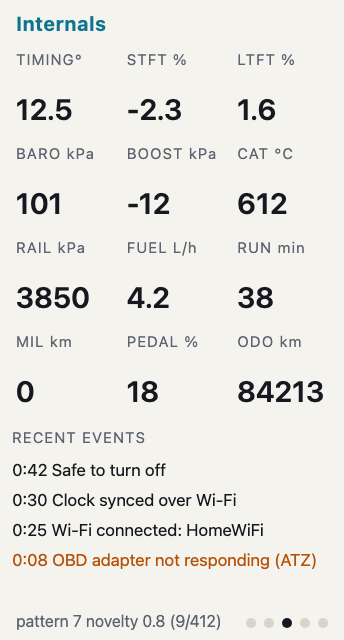
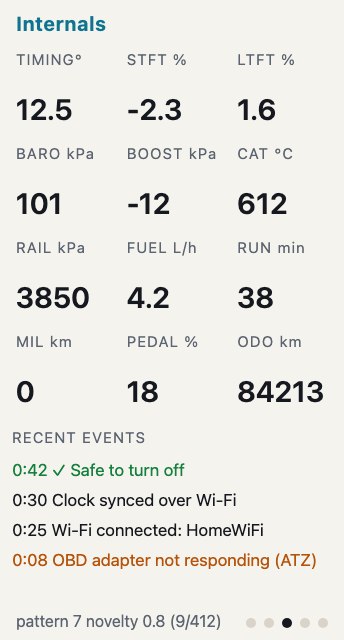
Show live on page 3 whether the power can be cut
The newest save line turns green "Safe to turn off" only when car data has
stopped for 5 s, everything is on the card and no upload is running. Until
then it is red with the reason: logging, saving or upload. The decision is
a pure function (power_state.c) with a simulated drive in the host tests;
the screen simulator shows both states in both themes.

Claude-Session: https://claude.ai/code/session_01XTAvvSkN4SswRoW4SU59VW

Changed region(s): [[0.0291, 0.7188, 0.5523, 0.75]]

diff --git a/docs/screens/screens.html b/docs/screens/screens.html
@@ -35,7 +35,14 @@ body{margin:0;background:#1a1f27;font-family:Montserrat,system-ui,sans-serif;col
 <div class="scr" id="internals">
  <div style="padding:12px 16px 6px;font-size:20px;height:44px;box-sizing:border-box"><span class="brand">Internals</span></div>
  <div class="grid3" style="row-gap:6px"><div class="t3" style="height:88px"><span class="cap" style="font-size:15px">TIMING°</span><span style="font-size:29px;font-weight:600">12.5</span></div><div class="t3" style="height:88px"><span class="cap" style="font-size:15px">STFT %</span><span style="font-size:29px;font-weight:600">-2.3</span></div><div class="t3" style="height:88px"><span class="cap" style="font-size:15px">LTFT %</span><span style="font-size:29px;font-weight:600">1.6</span></div><div class="t3" style="height:88px"><span class="cap" style="font-size:15px">BARO kPa</span><span style="font-size:29px;font-weight:600">101</span></div><div class="t3" style="height:88px"><span class="cap" style="font-size:15px">BOOST kPa</span><span style="font-size:29px;font-weight:600">-12</span></div><div class="t3" style="height:88px"><span class="cap" style="font-size:15px">CAT °C</span><span style="font-size:29px;font-weight:600">612</span></div><div class="t3" style="height:88px"><span class="cap" style="font-size:15px">RAIL kPa</span><span style="font-size:29px;font-weight:600">3850</span></div><div class="t3" style="height:88px"><span class="cap" style="font-size:15px">FUEL L/h</span><span style="font-size:29px;font-weight:600">4.2</span></div><div class="t3" style="height:88px"><span class="cap" style="font-size:15px">RUN min</span><span style="font-size:29px;font-weight:600">38</span></div><div class="t3" style="height:88px"><span class="cap" style="font-size:15px">MIL km</span><span style="font-size:29px;font-weight:600">0</span></div><div class="t3" style="height:88px"><span class="cap" style="font-size:15px">PEDAL %</span><span style="font-size:29px;font-weight:600">18</span></div><div class="t3" style="height:88px"><span class="cap" style="font-size:15px">ODO km</span><span style="font-size:29px;font-weight:600">84213</span></div></div>
- <div class="cap" style="position:absolute;left:12px;top:428px;font-size:15px;letter-spacing:.08em">RECENT EVENTS</div><div style="position:absolute;left:12px;top:460px;width:320px;font-size:17px;white-space:nowrap;overflow:hidden;text-overflow:ellipsis;">0:42 Safe to turn off</div><div style="position:absolute;left:12px;top:490px;width:320px;font-size:17px;white-space:nowrap;overflow:hidden;text-overflow:ellipsis;">0:30 Clock synced over Wi-Fi</div><div style="position:absolute;left:12px;top:520px;width:320px;font-size:17px;white-space:nowrap;overflow:hidden;text-overflow:ellipsis;">0:25 Wi-Fi connected: HomeWiFi</div><div style="position:absolute;left:12px;top:550px;width:320px;font-size:17px;white-space:nowrap;overflow:hidden;text-overflow:ellipsis;color:#F59E0B;">0:08 OBD adapter not responding (ATZ)</div>
+ <div class="cap" style="position:absolute;left:12px;top:428px;font-size:15px;letter-spacing:.08em">RECENT EVENTS</div><div style="position:absolute;left:12px;top:460px;width:320px;font-size:17px;white-space:nowrap;overflow:hidden;text-overflow:ellipsis;color:#22C55E;">0:42 &#10003; Safe to turn off</div><div style="position:absolute;left:12px;top:490px;width:320px;font-size:17px;white-space:nowrap;overflow:hidden;text-overflow:ellipsis;">0:30 Clock synced over Wi-Fi</div><div style="position:absolute;left:12px;top:520px;width:320px;font-size:17px;white-space:nowrap;overflow:hidden;text-overflow:ellipsis;">0:25 Wi-Fi connected: HomeWiFi</div><div style="position:absolute;left:12px;top:550px;width:320px;font-size:17px;white-space:nowrap;overflow:hidden;text-overflow:ellipsis;color:#F59E0B;">0:08 OBD adapter not responding (ATZ)</div>
+ <div class="foot">pattern 7  novelty 0.8  (9/412)</div>
+ <div class="dots"><span></span><span></span><span class="on"></span><span></span><span></span></div>
+</div>
+<div class="scr" id="internals-logging">
+ <div style="padding:12px 16px 6px;font-size:20px;height:44px;box-sizing:border-box"><span class="brand">Internals</span></div>
+ <div class="grid3" style="row-gap:6px"><div class="t3" style="height:88px"><span class="cap" style="font-size:15px">TIMING°</span><span style="font-size:29px;font-weight:600">12.5</span></div><div class="t3" style="height:88px"><span class="cap" style="font-size:15px">STFT %</span><span style="font-size:29px;font-weight:600">-2.3</span></div><div class="t3" style="height:88px"><span class="cap" style="font-size:15px">LTFT %</span><span style="font-size:29px;font-weight:600">1.6</span></div><div class="t3" style="height:88px"><span class="cap" style="font-size:15px">BARO kPa</span><span style="font-size:29px;font-weight:600">101</span></div><div class="t3" style="height:88px"><span class="cap" style="font-size:15px">BOOST kPa</span><span style="font-size:29px;font-weight:600">-12</span></div><div class="t3" style="height:88px"><span class="cap" style="font-size:15px">CAT °C</span><span style="font-size:29px;font-weight:600">612</span></div><div class="t3" style="height:88px"><span class="cap" style="font-size:15px">RAIL kPa</span><span style="font-size:29px;font-weight:600">3850</span></div><div class="t3" style="height:88px"><span class="cap" style="font-size:15px">FUEL L/h</span><span style="font-size:29px;font-weight:600">4.2</span></div><div class="t3" style="height:88px"><span class="cap" style="font-size:15px">RUN min</span><span style="font-size:29px;font-weight:600">38</span></div><div class="t3" style="height:88px"><span class="cap" style="font-size:15px">MIL km</span><span style="font-size:29px;font-weight:600">0</span></div><div class="t3" style="height:88px"><span class="cap" style="font-size:15px">PEDAL %</span><span style="font-size:29px;font-weight:600">18</span></div><div class="t3" style="height:88px"><span class="cap" style="font-size:15px">ODO km</span><span style="font-size:29px;font-weight:600">84213</span></div></div>
+ <div class="cap" style="position:absolute;left:12px;top:428px;font-size:15px;letter-spacing:.08em">RECENT EVENTS</div><div style="position:absolute;left:12px;top:460px;width:320px;font-size:17px;white-space:nowrap;overflow:hidden;text-overflow:ellipsis;color:#EF4444;">0:42 &#9888; Not safe: logging</div><div style="position:absolute;left:12px;top:490px;width:320px;font-size:17px;white-space:nowrap;overflow:hidden;text-overflow:ellipsis;">0:30 Clock synced over Wi-Fi</div><div style="position:absolute;left:12px;top:520px;width:320px;font-size:17px;white-space:nowrap;overflow:hidden;text-overflow:ellipsis;">0:25 Wi-Fi connected: HomeWiFi</div><div style="position:absolute;left:12px;top:550px;width:320px;font-size:17px;white-space:nowrap;overflow:hidden;text-overflow:ellipsis;color:#F59E0B;">0:08 OBD adapter not responding (ATZ)</div>
  <div class="foot">pattern 7  novelty 0.8  (9/412)</div>
  <div class="dots"><span></span><span></span><span class="on"></span><span></span><span></span></div>
 </div>
@@ -43,7 +50,7 @@ body{margin:0;background:#1a1f27;font-family:Montserrat,system-ui,sans-serif;col
 <div class="scr" id="internals-custom">
  <div style="padding:12px 16px 6px;font-size:20px;height:44px;box-sizing:border-box"><span class="brand">Internals</span></div>
  <div class="grid3" style="row-gap:6px"><div class="t3" style="height:88px"><span class="cap" style="font-size:15px">TIMING°</span><span style="font-size:29px;font-weight:600">12.5</span></div><div class="t3" style="height:88px"><span class="cap" style="font-size:15px">STFT %</span><span style="font-size:29px;font-weight:600">-2.3</span></div><div class="t3" style="height:88px"><span class="cap" style="font-size:15px">LTFT %</span><span style="font-size:29px;font-weight:600">1.6</span></div><div class="t3" style="height:88px"><span class="cap" style="font-size:15px">BARO kPa</span><span style="font-size:29px;font-weight:600">101</span></div><div class="t3" style="height:88px"><span class="cap" style="font-size:15px">BOOST kPa</span><span style="font-size:29px;font-weight:600">-12</span></div><div class="t3" style="height:88px"><span class="cap" style="font-size:15px">CAT °C</span><span style="font-size:29px;font-weight:600">612</span></div><div class="t3" style="height:88px"><span class="cap" style="font-size:15px">RAIL kPa</span><span style="font-size:29px;font-weight:600">3850</span></div><div class="t3" style="height:88px"><span class="cap" style="font-size:15px">FUEL L/h</span><span style="font-size:29px;font-weight:600">4.2</span></div><div class="t3" style="height:88px"><span class="cap" style="font-size:15px">RUN min</span><span style="font-size:29px;font-weight:600">38</span></div><div class="t3" style="height:88px"><span class="cap" style="font-size:15px">MIL km</span><span style="font-size:29px;font-weight:600">0</span></div><div class="t3" style="height:88px"><span class="cap" style="font-size:15px">PEDAL %</span><span style="font-size:29px;font-weight:600">18</span></div><div class="t3" style="height:88px"><span class="cap" style="font-size:15px">ODO km</span><span style="font-size:29px;font-weight:600">84213</span></div></div>
- <div class="tile" style="position:absolute;left:8px;top:428px;width:162px;height:52px;flex-direction:row;align-items:center;padding:4px 8px"><span class="muted" style="font-size:16px">Tyre FL</span><span style="font-size:24px;font-weight:600">2.4</span></div><div class="tile" style="position:absolute;left:174px;top:428px;width:162px;height:52px;flex-direction:row;align-items:center;padding:4px 8px"><span class="muted" style="font-size:16px">Tyre FR</span><span style="font-size:24px;font-weight:600">2.4</span></div><div class="cap" style="position:absolute;left:12px;top:484px;font-size:15px;letter-spacing:.08em">RECENT EVENTS</div><div style="position:absolute;left:12px;top:516px;width:320px;font-size:17px;white-space:nowrap;overflow:hidden;text-overflow:ellipsis;">0:42 Safe to turn off</div><div style="position:absolute;left:12px;top:546px;width:320px;font-size:17px;white-space:nowrap;overflow:hidden;text-overflow:ellipsis;">0:30 Clock synced over Wi-Fi</div>
+ <div class="tile" style="position:absolute;left:8px;top:428px;width:162px;height:52px;flex-direction:row;align-items:center;padding:4px 8px"><span class="muted" style="font-size:16px">Tyre FL</span><span style="font-size:24px;font-weight:600">2.4</span></div><div class="tile" style="position:absolute;left:174px;top:428px;width:162px;height:52px;flex-direction:row;align-items:center;padding:4px 8px"><span class="muted" style="font-size:16px">Tyre FR</span><span style="font-size:24px;font-weight:600">2.4</span></div><div class="cap" style="position:absolute;left:12px;top:484px;font-size:15px;letter-spacing:.08em">RECENT EVENTS</div><div style="position:absolute;left:12px;top:516px;width:320px;font-size:17px;white-space:nowrap;overflow:hidden;text-overflow:ellipsis;color:#22C55E;">0:42 &#10003; Safe to turn off</div><div style="position:absolute;left:12px;top:546px;width:320px;font-size:17px;white-space:nowrap;overflow:hidden;text-overflow:ellipsis;">0:30 Clock synced over Wi-Fi</div>
  <div class="foot">pattern 7  novelty 0.8  (9/412)</div>
  <div class="dots"><span></span><span></span><span class="on"></span><span></span><span></span></div>
 </div>

diff --git a/main/sdlog.c b/main/sdlog.c
@@ -56,6 +56,8 @@ static char     s_ml_path[96];
 static uint64_t s_ml_bytes, s_ml_synced;
 static uint32_t s_window_seq;
 static int64_t  s_last_sync_ms;        /* uptime of the last full flush to the card */
+static volatile bool s_unsaved;        /* something was written since the last flush */
+static volatile int64_t s_last_write_ms = -1;   /* uptime of the last write to a session file */
 static WORD_ALIGNED_ATTR char s_csv_iobuf[2048];   /* internal DRAM, DMA-capable on the S3 */
 
 /* ---------- helpers ---------- */
@@ -155,6 +157,7 @@ static void sync_all_locked(void)
     if (s_ml)  { fflush(s_ml);  fsync(fileno(s_ml));  s_ml_synced = s_ml_bytes; }
     meta_flush_locked();                       /* keeps the JSON row count current */
     save_clock_locked();
+    s_unsaved = false;
     s_last_sync_ms = esp_timer_get_time() / 1000;
 }
 
@@ -302,6 +305,14 @@ esp_err_t sdlog_init(void)
 }
 
 bool sdlog_ok(void) { return s_ok; }
+
+bool sdlog_saved(void) { return s_ok && !s_unsaved; }
+
+int64_t sdlog_ms_since_write(void)
+{
+    int64_t t = s_last_write_ms;
+    return t < 0 ? INT64_MAX : esp_timer_get_time() / 1000 - t;
+}
 uint32_t sdlog_session_id(void) { return s_session; }
 
 static int fmt_num(char *dst, size_t n, float v)
@@ -336,7 +347,7 @@ void sdlog_write_row(const obd_values_t *v)
     line[n++] = '\n';
     line[n] = 0;
 
-    if (fputs(line, s_csv) >= 0) s_bytes += n;
+    if (fputs(line, s_csv) >= 0) { s_bytes += n; s_unsaved = true; s_last_write_ms = esp_timer_get_time() / 1000; }
     else { static int said; if (!said++) sys_event(EV_ERROR, "SD write failed: card full or removed?"); }
     bool saved = false;
     if (s_rows % CONFIG_SDLOG_FSYNC_EVERY_ROWS == 0 ||
@@ -364,7 +375,7 @@ void sdlog_write_raw(uint8_t pid, const char *hex)
     }
     if (s_raw) {
         int n = fprintf(s_raw, "%lld,01%02X,%s\n", (long long)(esp_timer_get_time() / 1000), pid, hex);
-        if (n > 0) s_raw_bytes += n;
+        if (n > 0) { s_raw_bytes += n; s_unsaved = true; }
     }
     xSemaphoreGive(s_lock);
 }
@@ -392,7 +403,7 @@ void sdlog_write_pattern_window(uint32_t window_seq, int64_t start_ms, int64_t e
                         (long long)end_ms, samples, pattern_id, dist, novelty, spawned ? 1 : 0, sax_rpm, sax_speed);
         for (int i = 0; i < nfeatures; i++) n += fprintf(s_pat, ",%.4g", features[i]);
         n += fprintf(s_pat, "\n");
-        if (n > 0) s_pat_bytes += n;
+        if (n > 0) { s_pat_bytes += n; s_unsaved = true; }
     }
     xSemaphoreGive(s_lock);
 }
@@ -408,6 +419,7 @@ void sdlog_write_ml_line(const char *header, const char *line)
     }
     if (s_ml && fputs(line, s_ml) >= 0) {
         s_ml_bytes += strlen(line);
+        s_unsaved = true;
         /* flushed with the CSV in sync_all_locked(): one fsync per save, not one per model line */
     }
     xSemaphoreGive(s_lock);

diff --git a/main/display.c b/main/display.c
@@ -19,6 +19,10 @@
 #include "board.h"
 #include "display.h"
 #include "status.h"
+#include "sdlog.h"
+#include "power_state.h"
+#include "uploader.h"
+#include "sys_mode.h"
 #include "version.h"
 #include <stdarg.h>
 
@@ -841,13 +845,31 @@ static void refresh_page2(const app_status_t *st)
     if (fit > P2_EVENTS) fit = P2_EVENTS;
     if (fit < 1) lv_obj_add_flag(p2_ev_cap, LV_OBJ_FLAG_HIDDEN);
     else { lv_obj_remove_flag(p2_ev_cap, LV_OBJ_FLAG_HIDDEN); lv_obj_set_pos(p2_ev_cap, 6, top); }
+    bool save_line_shown = false;
     for (int i = 0; i < P2_EVENTS; i++) {
         if (i >= fit) { lv_obj_add_flag(p2_ev_line[i], LV_OBJ_FLAG_HIDDEN); continue; }
         lv_obj_remove_flag(p2_ev_line[i], LV_OBJ_FLAG_HIDDEN);
         lv_obj_set_pos(p2_ev_line[i], 6, top + 16 + i * 15);
         if (i >= st->event_count) { lv_label_set_text(p2_ev_line[i], i == 0 ? "no events yet" : ""); lv_obj_set_style_text_color(p2_ev_line[i], lv_color_hex(C_MUTED), 0); continue; }
         const sys_event_t *e = &st->events[(st->event_head + EVENT_MAX - 1 - i) % EVENT_MAX];   /* newest first */
-        lv_label_set_text_fmt(p2_ev_line[i], "%lu:%02lu %s", (unsigned long)(e->uptime_ms / 60000), (unsigned long)((e->uptime_ms / 1000) % 60), e->text);
+        unsigned long mm = (unsigned long)(e->uptime_ms / 60000), ss = (unsigned long)((e->uptime_ms / 1000) % 60);
+        if (strcmp(e->text, "Safe to turn off") == 0) {
+            /* The newest save line shows the state now, not when it was written: green only when car data has stopped,
+               everything is on the card and nothing is uploading (power_state.c). Older copies are greyed. */
+            if (!save_line_shown) {
+                save_line_shown = true;
+                power_state_t ps = power_state(sdlog_ok(), sdlog_saved(), sdlog_ms_since_write(), sys_mode_get() == MODE_DRIVE,
+                                               uploader_busy());
+                lv_label_set_text_fmt(p2_ev_line[i], "%lu:%02lu %s %s", mm, ss, ps == POWER_SAFE ? LV_SYMBOL_OK : LV_SYMBOL_WARNING,
+                                      power_state_text(ps));
+                lv_obj_set_style_text_color(p2_ev_line[i], lv_color_hex(ps == POWER_SAFE ? C_OK : C_BAD), 0);
+            } else {
+                lv_label_set_text_fmt(p2_ev_line[i], "%lu:%02lu Saved", mm, ss);
+                lv_obj_set_style_text_color(p2_ev_line[i], lv_color_hex(C_MUTED), 0);
+            }
+            continue;
+        }
+        lv_label_set_text_fmt(p2_ev_line[i], "%lu:%02lu %s", mm, ss, e->text);
         lv_obj_set_style_text_color(p2_ev_line[i], lv_color_hex(e->level == EV_ERROR ? C_BAD : e->level == EV_WARN ? C_WARN : C_TEXT), 0);
     }
 }

diff --git a/tests/host/test_main.c b/tests/host/test_main.c
@@ -24,6 +24,7 @@ void sys_event(event_level_t level, const char *fmt, ...)
 static int fails, checks;
 #include "adapter_match.h"
 #include "harden.h"
+#include "power_state.h"
 #define CHECK(cond) do { checks++; if (!(cond)) { fails++; fprintf(stderr, "FAIL %s:%d: %s\n", __FILE__, __LINE__, #cond); } } while (0)
 #define NEAR(a, b) (fabsf((a) - (b)) < 1e-3f)
 
@@ -219,8 +220,33 @@ static void test_harden(void)
     CHECK(!harden_timezone_ok(NULL));
 }
 
+/* Simulates a drive from start to switch-off: the screen may say "Safe to turn off" only at the end. */
+static void test_power_state(void)
+{
+    CHECK(power_state(false, true, 99999, false, false) == POWER_NO_CARD);
+    CHECK(power_state(true, true, 99999, true, false) == POWER_LOGGING);          /* car link up */
+    CHECK(power_state(true, true, 1200, false, false) == POWER_LOGGING);          /* rows still fresh, model still running */
+    CHECK(power_state(true, true, 4999, false, false) == POWER_LOGGING);
+    CHECK(power_state(true, false, 5000, false, false) == POWER_SAVING);          /* data stopped, last save pending */
+    CHECK(power_state(true, true, 5000, false, true) == POWER_UPLOADING);
+    CHECK(power_state(true, true, 5000, false, false) == POWER_SAFE);             /* stale data, saved, idle */
+    CHECK(power_state(true, true, INT64_MAX, false, false) == POWER_SAFE);        /* parked since boot */
+    /* a timeline: rows every 1.5 s, then the car stops at 30 s; saves every 10 s */
+    int safe_at = -1;
+    for (int ms = 0; ms <= 60000; ms += 500) {
+        int64_t last_row = ms <= 30000 ? (ms / 1500) * 1500 : 30000;
+        bool saved = (ms >= 40000);                                   /* first save after the last row */
+        power_state_t s = power_state(true, saved, ms - last_row, ms <= 30000, false);
+        if (s == POWER_SAFE && safe_at < 0) safe_at = ms;
+        if (ms <= 30000) CHECK(s != POWER_SAFE);
+    }
+    CHECK(safe_at == 40000);
+    for (int s = POWER_SAFE; s <= POWER_UPLOADING; s++) CHECK(strlen(power_state_text((power_state_t)s)) <= 18);   /* fits page 3 */
+}
+
 int main(void)
 {
+    test_power_state();
     test_harden();
     test_adapter_names();
     test_pattern();

diff --git a/main/power_state.h b/main/power_state.h
@@ -1,0 +1,17 @@
+/* Whether the power can be cut now, and if not, why. The screen shows it live on page 3. */
+#pragma once
+#include <stdbool.h>
+#include <stdint.h>
+
+#define POWER_STALE_MS 5000   /* car data counts as stopped this long after the last row */
+
+typedef enum {
+    POWER_SAFE = 0,      /* car data has stopped, everything is on the card, nothing is uploading */
+    POWER_NO_CARD,       /* nothing can be saved */
+    POWER_LOGGING,       /* the car link is up or rows arrived in the last POWER_STALE_MS (the model runs per row) */
+    POWER_SAVING,        /* data stopped but the last of it is not on the card yet (at most one save period) */
+    POWER_UPLOADING,     /* a pass to the desktop app is running */
+} power_state_t;
+
+power_state_t power_state(bool card, bool saved, int64_t ms_since_write, bool driving, bool uploading);
+const char   *power_state_text(power_state_t s);   /* short enough for one 160 px line on page 3 */

diff --git a/main/uploader.c b/main/uploader.c
@@ -27,6 +27,7 @@ static char s_host[64], s_token[72], s_board[13];
 static uint16_t s_port;
 static char *s_cert;                    /* PEM, PSRAM */
 static bool s_ok;
+static volatile bool s_busy;
 
 typedef struct { char *buf; size_t len, cap; } body_t;
 
@@ -143,9 +144,21 @@ static long long remote_size(const char *list, const char *name)
     return 0;
 }
 
+bool uploader_busy(void) { return s_busy; }
+
+static bool pass_inner(void);
+
 bool uploader_pass(void)
 {
     if (!s_ok) return false;
+    s_busy = true;
+    bool reached = pass_inner();
+    s_busy = false;
+    return reached;
+}
+
+static bool pass_inner(void)
+{
     static body_t list, small;
     if (!list.buf) { list.cap = LIST_MAX; list.buf = heap_caps_malloc(LIST_MAX, MALLOC_CAP_SPIRAM); }
     if (!small.buf) { small.cap = 64; small.buf = heap_caps_malloc(64, MALLOC_CAP_SPIRAM); }

diff --git a/main/power_state.c b/main/power_state.c
@@ -1,0 +1,22 @@
+#include "power_state.h"
+
+power_state_t power_state(bool card, bool saved, int64_t ms_since_write, bool driving, bool uploading)
+{
+    if (!card) return POWER_NO_CARD;
+    if (driving || ms_since_write < POWER_STALE_MS) return POWER_LOGGING;
+    if (!saved) return POWER_SAVING;
+    if (uploading) return POWER_UPLOADING;
+    return POWER_SAFE;
+}
+
+const char *power_state_text(power_state_t s)
+{
+    switch (s) {
+    case POWER_SAFE:      return "Safe to turn off";
+    case POWER_NO_CARD:   return "No SD card";
+    case POWER_LOGGING:   return "Not safe: logging";
+    case POWER_SAVING:    return "Not safe: saving";
+    case POWER_UPLOADING: return "Not safe: upload";
+    }
+    return "";
+}

diff --git a/main/sdlog.h b/main/sdlog.h
@@ -10,6 +10,10 @@
 
 esp_err_t sdlog_init(void);
 bool      sdlog_ok(void);
+/* True when everything written so far is on the card, so the power can be cut now. False between a write and the next
+   save (at most SDLOG_SYNC_PERIOD_S seconds) and when there is no card. Reads one flag: safe to call from the display. */
+bool      sdlog_saved(void);
+int64_t   sdlog_ms_since_write(void);   /* since the last row or file write, INT64_MAX before any */
 /* Flush everything to the card now and raise "Safe to turn off" (the car link dropped, or a periodic save). */
 void      sdlog_sync_now(void);
 uint32_t  sdlog_session_id(void);

diff --git a/main/uploader.h b/main/uploader.h
@@ -21,3 +21,4 @@ const char *uploader_board_id(void);
 /* One pass: catch the desktop up on every session file, within a byte budget. Returns false if the desktop could not be
    reached. Call it from the Wi-Fi task only, while connected and parked. */
 bool uploader_pass(void);
+bool uploader_busy(void);        /* a pass is running */

diff --git a/README.md b/README.md
@@ -16,7 +16,7 @@ Version 2.2.0. Licence: MIT. Downloads for the firmware and the desktop app are 
 
 - Every standard Mode 01 field the car reports (70 are decoded), battery voltage, the VIN, and stored, pending and permanent trouble codes. One CSV row is written per poll cycle.
 - A small neural network on the chip. Each time a row arrives it classifies the last 30 seconds of driving as stopped, braking, accelerating or cruising. It also estimates three values the OBD port does not report: brake pressure, flywheel torque and fuel rate.
-- A save to the SD card every 10 seconds. Page 3 of the screen shows "Safe to turn off" each time, so you can pull the plug without losing the drive.
+- A save to the SD card every 10 seconds, and a live power-off line on page 3: green "Safe to turn off" only once car data has stopped, everything is on the card and nothing is uploading, red with the reason (logging, saving, upload) otherwise.
 - A fault engine that ranks trouble codes by severity and groups codes that share a cause.
 - Dark and light screen themes, switched by time of day or fixed in a settings file.
 - A soft real-time scheduler that times every job against its deadline and restarts the board if a step hangs.
@@ -69,6 +69,13 @@ The same five pages in the light theme:
 <img src="docs/images/internals-light.png" width="170" alt="Page 3 in the light theme: internals and recent events">
 <img src="docs/images/faults-light.png" width="170" alt="Page 4 in the light theme: faults">
 <img src="docs/images/system-light.png" width="170" alt="Page 5 in the light theme: system">
+</p>
+
+Page 3 says live whether the power can be cut. It turns green only when car data has stopped, everything is on the card and no upload is running:
+
+<p align="center">
+<img src="docs/images/internals.png" width="170" alt="Page 3 with the green line: Safe to turn off">
+<img src="docs/images/internals-logging.png" width="170" alt="Page 3 with the red line: Not safe, logging">
 </p>
 
 By default the screen switches by time of day. It is light from 06:00 to 17:00 and dark otherwise, in the board's time zone. Set `timezone` in `config.json` (the desktop app fills it in from your computer), because the build default is UTC. Before the clock is known the screen stays dark. Set `theme_mode` in `config.json` to 1 for always dark or 2 for always light, and `day_start_hour` and `day_end_hour` to change the hours (see [docs/CONFIGURATION.md](docs/CONFIGURATION.md)). The pictures are renders, not photographs of a panel. They come from `docs/screens/screens.html` with `sh docs/screens/render.sh`, which applies the same light colour table the firmware uses.
@@ -142,7 +149,7 @@ What the model does not do yet:
 
 ## Status
 
-What has been checked, on the bench or in the code: the build (with Wi-Fi clock sync on and off), the model's identity hash, the host unit tests (108 checks), the 10-second save and the "Safe to turn off" event on a board with an SD card, and the Wi-Fi upload to a stand-in receiver with resume after a cut-off pass. CI builds the desktop app and runs its unit tests on Windows, macOS and Linux. Nobody has opened the app on a real machine yet.
+What has been checked, on the bench or in the code: the build (with Wi-Fi clock sync on and off), the model's identity hash, the host unit tests (183 checks, including a simulated drive for the power-off line), the 10-second save and the "Safe to turn off" event on a board with an SD card, and the Wi-Fi upload to a stand-in receiver with resume after a cut-off pass. CI builds the desktop app and runs its unit tests on Windows, macOS and Linux. Nobody has opened the app on a real machine yet.
 
 Known security limits are listed in [SECURITY.md](SECURITY.md#known-limits).
 

diff --git a/docs/CONFIGURATION.md b/docs/CONFIGURATION.md
@@ -19,7 +19,7 @@ The board writes everything under `/sdcard/obd/`.
 | `custom_pids.csv` | up to 8 custom PIDs (you create it) |
 | `clock.txt` | the time at the last save, so the clock can resume after a power cut |
 
-A new session starts at every power cycle. Everything is flushed to the card at least every 10 seconds (`SDLOG_SYNC_PERIOD_S`) and each time the event "Safe to turn off" appears on page 3.
+A new session starts at every power cycle. Everything is flushed to the card at least every 10 seconds (`SDLOG_SYNC_PERIOD_S`). The newest save line on page 3 shows live whether you can cut the power (`main/power_state.c`): green "Safe to turn off" once no car data has arrived for 5 seconds, the last of it is on the card and no upload is running, and red "Not safe: logging", "Not safe: saving" or "Not safe: upload" until then. The AI model runs once per row of car data, so it has stopped by the time the line turns green.
 
 ## Wi-Fi networks
 

diff --git a/docs/FIELD_CHECKS.md b/docs/FIELD_CHECKS.md
@@ -17,6 +17,7 @@ Put the file named in each row on the SD card at `obd/`, boot the board and read
 
 | Check | Do this | Expected | Firmware | Car and adapter | Result |
 |---|---|---|---|---|---|
+| Power-off line | watch page 3 while driving, then switch the car off | red "Not safe: logging" while driving, green "Safe to turn off" about 10 s after the car stops | | | |
 | Power off while driving | cut power mid-drive, pull the card | the last rows of `sNNNNNN.csv` are intact, at most the final 10 seconds are missing | | | |
 | Another adapter | pair a different BLE OBD adapter | the board finds it, connects and logs rows | | | |
 | Adapter name not on the list | an adapter whose name is not in `OBD_BLE_NAME_PREFIXES` | it is not found until its name prefix is added | | | |
